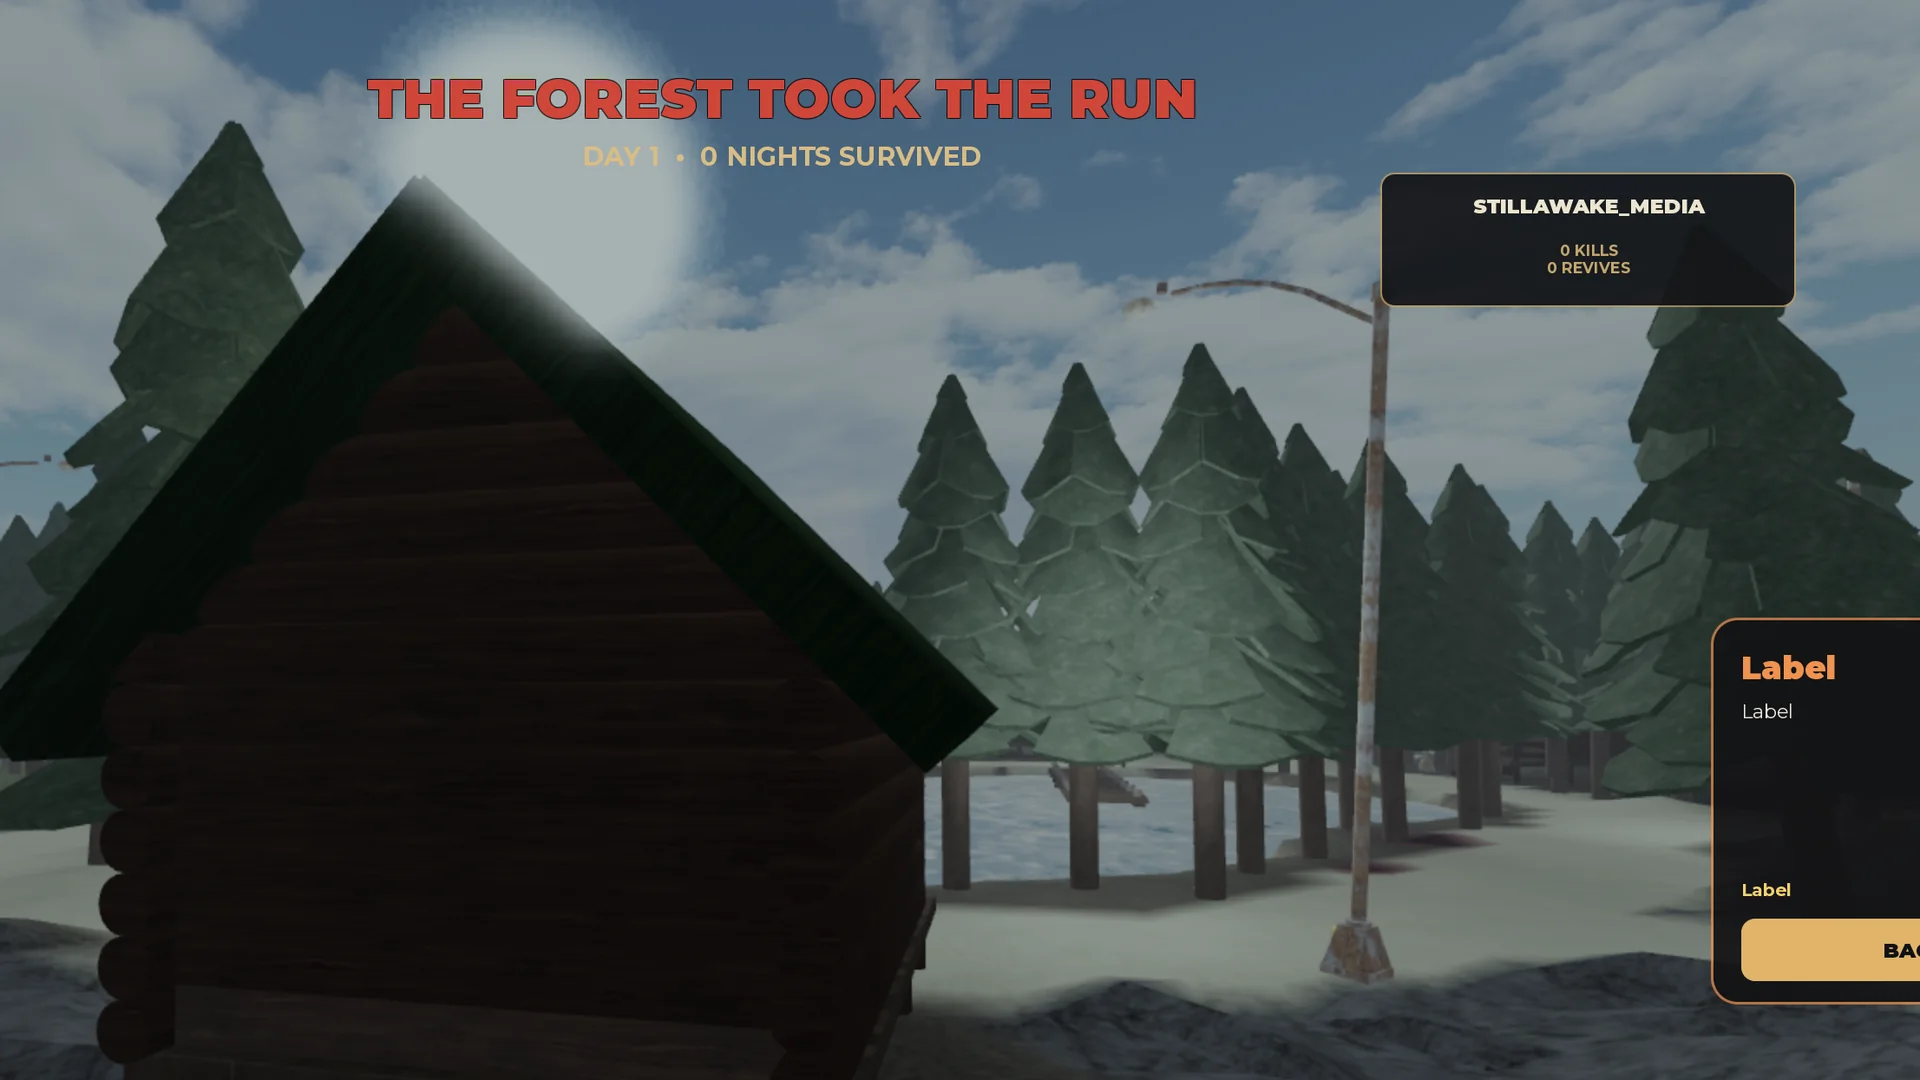
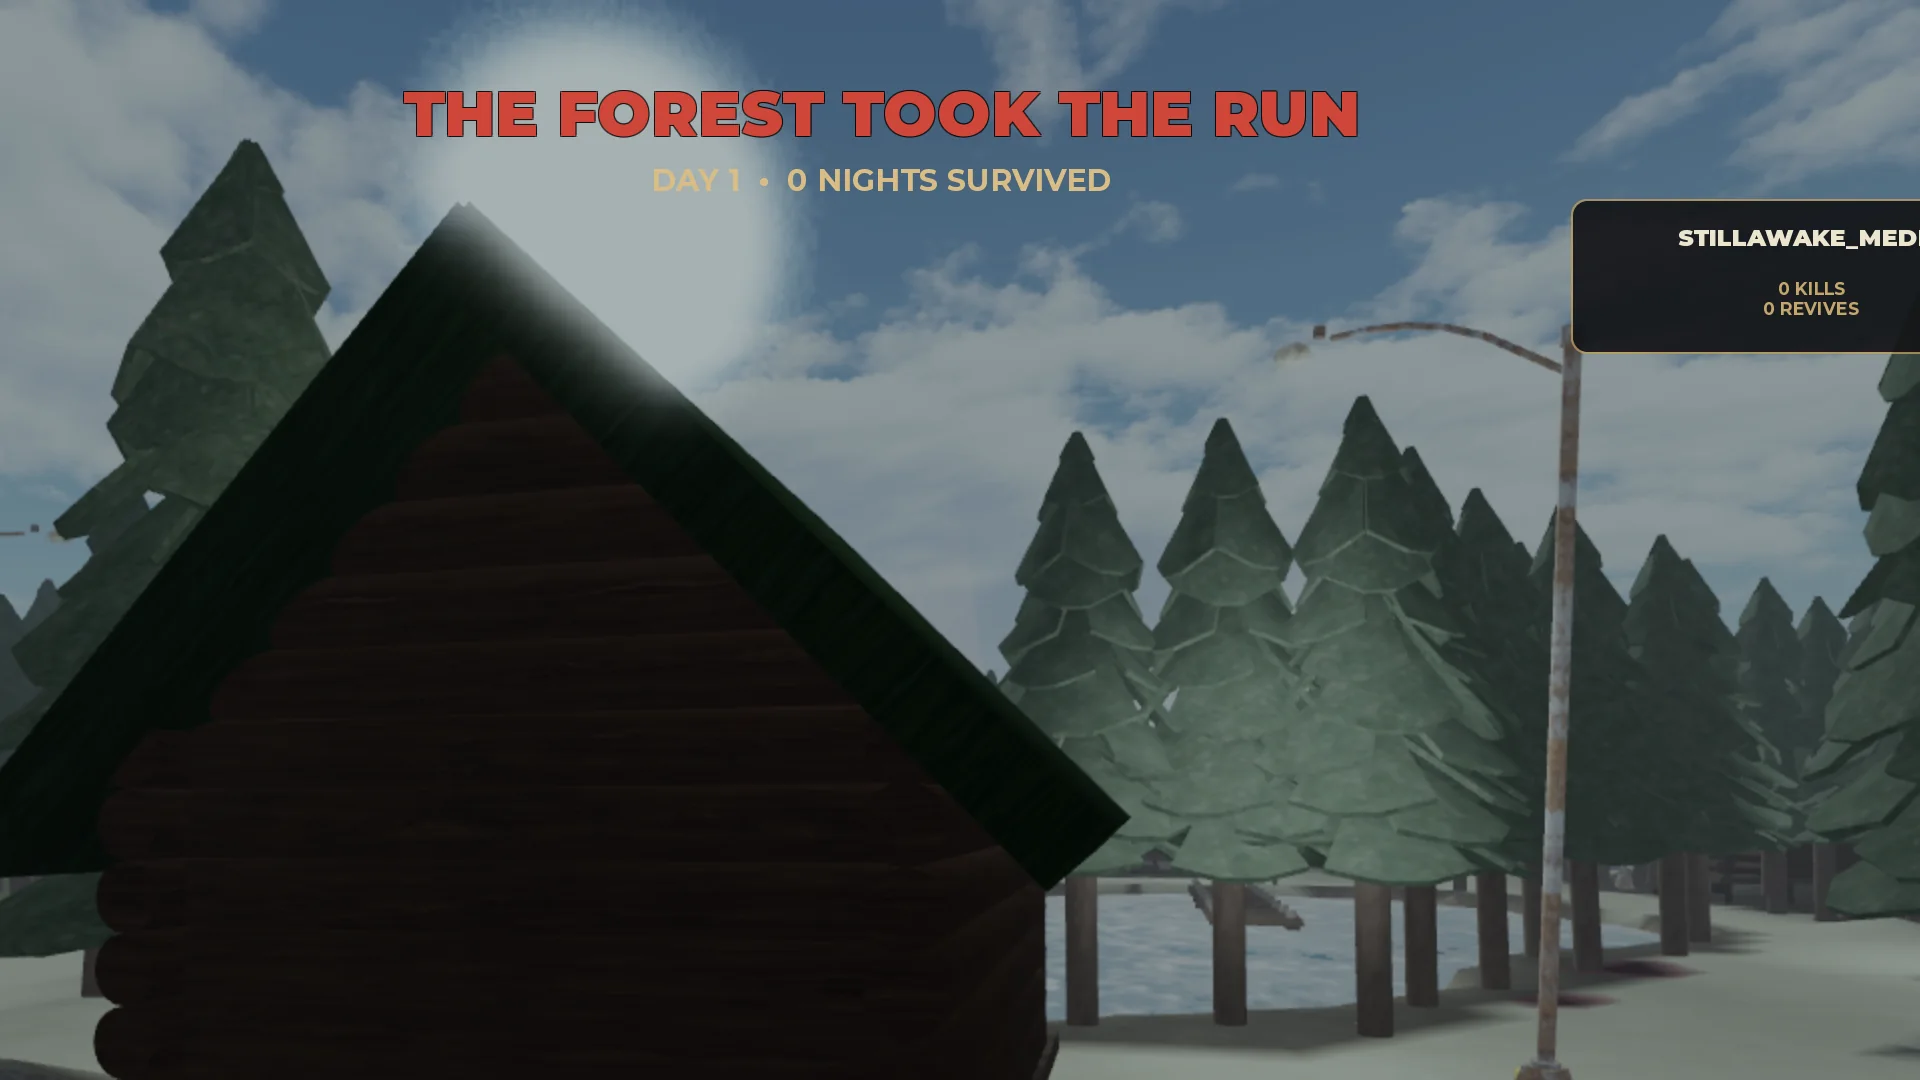
Stillskin Forest: clean end-of-run capture
Re-cropped end-of-run frame with no placeholder UI; the clipped stats
card at the edge is real game UI. 72 captures, 26 listed images still
missing.

diff --git a/src/data/games/stillskin-forest/captured.ts b/src/data/games/stillskin-forest/captured.ts
@@ -340,6 +340,17 @@ export const capturedAssets: Record<string, Partial<MediaAsset>> = {
     "source": "masters/pass5/story-documents.png",
     "src": "/games/stillskin-forest/lore/stillskin-forest-story-documents.webp"
   },
+  "stillskin-forest-end-run": {
+    "description": "End of run. Real RunOver outro after the survivor was eliminated; cropped 1:1 to exclude a placeholder UI panel at the right edge (the run-stats card is clipped). Not the rooftop lineup.",
+    "dimensions": {
+      "width": 1920,
+      "height": 1080
+    },
+    "aspectRatio": "16:9",
+    "status": "optimized",
+    "source": "masters/pass5/end-run.png",
+    "src": "/games/stillskin-forest/mechanics/stillskin-forest-end-run.webp"
+  },
   "stillskin-forest-daytime": {
     "description": "Peaceful forest in daylight. Pine forest around the cabin row, daylight.",
     "dimensions": {

diff --git a/docs/games-platform/stillskin-forest/SCREENSHOT-CHECKLIST.md b/docs/games-platform/stillskin-forest/SCREENSHOT-CHECKLIST.md
@@ -4,7 +4,7 @@ Generated from `src/data/games/stillskin-forest/media.ts`. Do not edit by hand.
 
 Rules: real in-game captures only. No development UI unless the note says HUD allowed. No generated or stock images presented as gameplay. Save as WebP at the listed size to the `Path` shown (under `public/`). Then set the asset's status in `media.ts` and the image appears on every page that references it.
 
-Total: 98 · P0: 12 · captured: 71
+Total: 98 · P0: 12 · captured: 72
 
 | Done | Priority | File | Path | Size | Target page | Spoiler | In build | What to capture | Alt text |
 |---|---|---|---|---|---|---|---|---|---|
@@ -31,7 +31,7 @@ Total: 98 · P0: 12 · captured: 71
 | ☑ | P1 | `stillskin-forest-daytime.webp` | `public/games/stillskin-forest/locations/stillskin-forest-daytime.webp` | 1920×1080 (16:9) | `/games/stillskin-forest/wiki/mechanics/day-night-cycle` | no | live | Mid-morning, Day 1 lighting. | Sunlit pine forest in Stillskin Forest |
 | ☑ | P1 | `stillskin-forest-diner.webp` | `public/games/stillskin-forest/locations/stillskin-forest-diner.webp` | 1920×1080 (16:9) | `/games/stillskin-forest/wiki/locations/rosies-diner` | no | live | Exterior with neon sign at dusk. | The exterior of Rosie's Diner in Stillwater |
 | ☐ | P1 | `stillskin-forest-dread-encounter-closeup.webp` | `public/games/stillskin-forest/mechanics/stillskin-forest-dread-encounter-closeup.webp` | 1920×1080 (16:9) | `/games/stillskin-forest/wiki/mechanics/the-dread-encounter` | no | live | From inside, the face at the grate. | An infected staring through a locker grate |
-| ☐ | P1 | `stillskin-forest-end-run.webp` | `public/games/stillskin-forest/mechanics/stillskin-forest-end-run.webp` | 1920×1080 (16:9) | `/games/stillskin-forest/wiki/multiplayer/death-ghosts-and-the-finale` | no | live | The run-over result card during the outro tour. | The end-of-run summary card over the landmark tour |
+| ☑ | P1 | `stillskin-forest-end-run.webp` | `public/games/stillskin-forest/mechanics/stillskin-forest-end-run.webp` | 1920×1080 (16:9) | `/games/stillskin-forest/wiki/multiplayer/death-ghosts-and-the-finale` | no | live | The run-over result card during the outro tour. | The end-of-run summary card over the landmark tour |
 | ☐ | P1 | `stillskin-forest-gameplay-overview.webp` | `public/games/stillskin-forest/branding/stillskin-forest-gameplay-overview.webp` | 1920×1080 (16:9) | `/games/stillskin-forest` | no | live | Third-person, mid-day, a survivor looting with the town behind. Hide all HUD and development UI. | A survivor scavenging a Stillwater street by day |
 | ☑ | P1 | `stillskin-forest-general-store.webp` | `public/games/stillskin-forest/locations/stillskin-forest-general-store.webp` | 1920×1080 (16:9) | `/games/stillskin-forest/wiki/locations/pine-general-store` | no | live | Store front. | Pine General Store on Stillwater's main street |
 | ☑ | P1 | `stillskin-forest-graveyard.webp` | `public/games/stillskin-forest/locations/stillskin-forest-graveyard.webp` | 1920×1080 (16:9) | `/games/stillskin-forest/wiki/locations/graveyard` | no | live | Angel statue in frame. | The Blackthorn graveyard and its angel statue |

diff --git a/docs/games-platform/README.md b/docs/games-platform/README.md
@@ -70,7 +70,7 @@ Rules applied: anything only the design report claimed, or the log listed as unv
 
 ## 5. Media
 
-- 86 required images are defined in `media.ts`, plus 12 extra captures (98 total). **Passes 1–5 (2026-10-26): 71 captured (59 listed ids + 12 extras), all 12 P0 shots included.** 27 still missing, counting end-run, which was delivered but held back because a placeholder dev panel shows at its edge (`--skip`). The capture JSON gives a reason for each one, for example a shot that needs two players. Captures are real in-game renders. Night shots carry a client-side exposure lift, which their captions disclose. Captures live in `src/data/games/stillskin-forest/captured.ts`, generated by `node scripts/import-game-captures.mjs` from `capture-delivery/stillskin-forest-assets.json`. The script refuses to import if any listed file is missing. The hero image is real dusk gameplay. The two survivors in it are clones of one test avatar, as its description notes. Don't use the in-game Bag of Chips model in marketing: it shows a real third-party logo.
+- 86 required images are defined in `media.ts`, plus 12 extra captures (98 total). **Passes 1–5 (2026-10-26): 72 captured (60 listed ids + 12 extras), all 12 P0 shots included.** 26 still missing. The importer's `--skip` option holds back any frame with dev UI until a clean one arrives. The capture JSON gives a reason for each one, for example a shot that needs two players. Captures are real in-game renders. Night shots carry a client-side exposure lift, which their captions disclose. Captures live in `src/data/games/stillskin-forest/captured.ts`, generated by `node scripts/import-game-captures.mjs` from `capture-delivery/stillskin-forest-assets.json`. The script refuses to import if any listed file is missing. The hero image is real dusk gameplay. The two survivors in it are clones of one test avatar, as its description notes. Don't use the in-game Bag of Chips model in marketing: it shows a real third-party logo.
 - Missing images never render as broken `<img>`. Project cards use a designed typographic poster in the project's accent colour, the game screenshot gallery is hidden until real captures exist, and article figures appear only when an asset exists.
 - A separate session (the Stillskin asset agent) is capturing real screenshots into `public/games/stillskin-forest/<folder>/`, against this manifest. To publish a capture: set its entry in `capturedAssets` in `media.ts` (status `"optimized"`, real dimensions), then run `UPDATE_DOCS=1 npx vitest run src/lib/game-docs.test.ts`.
 - When the hero lands, also add it as `image` on the Stillskin record in `projects.ts`, so the Our Work hero and card show it.

diff --git a/docs/games-platform/stillskin-forest/CONTENT-AUDIT.md b/docs/games-platform/stillskin-forest/CONTENT-AUDIT.md
@@ -122,4 +122,4 @@ Generated from the wiki registry. Do not edit by hand.
 
 ## Media
 
-27 of 98 images still to capture. See SCREENSHOT-CHECKLIST.md.
+26 of 98 images still to capture. See SCREENSHOT-CHECKLIST.md.
